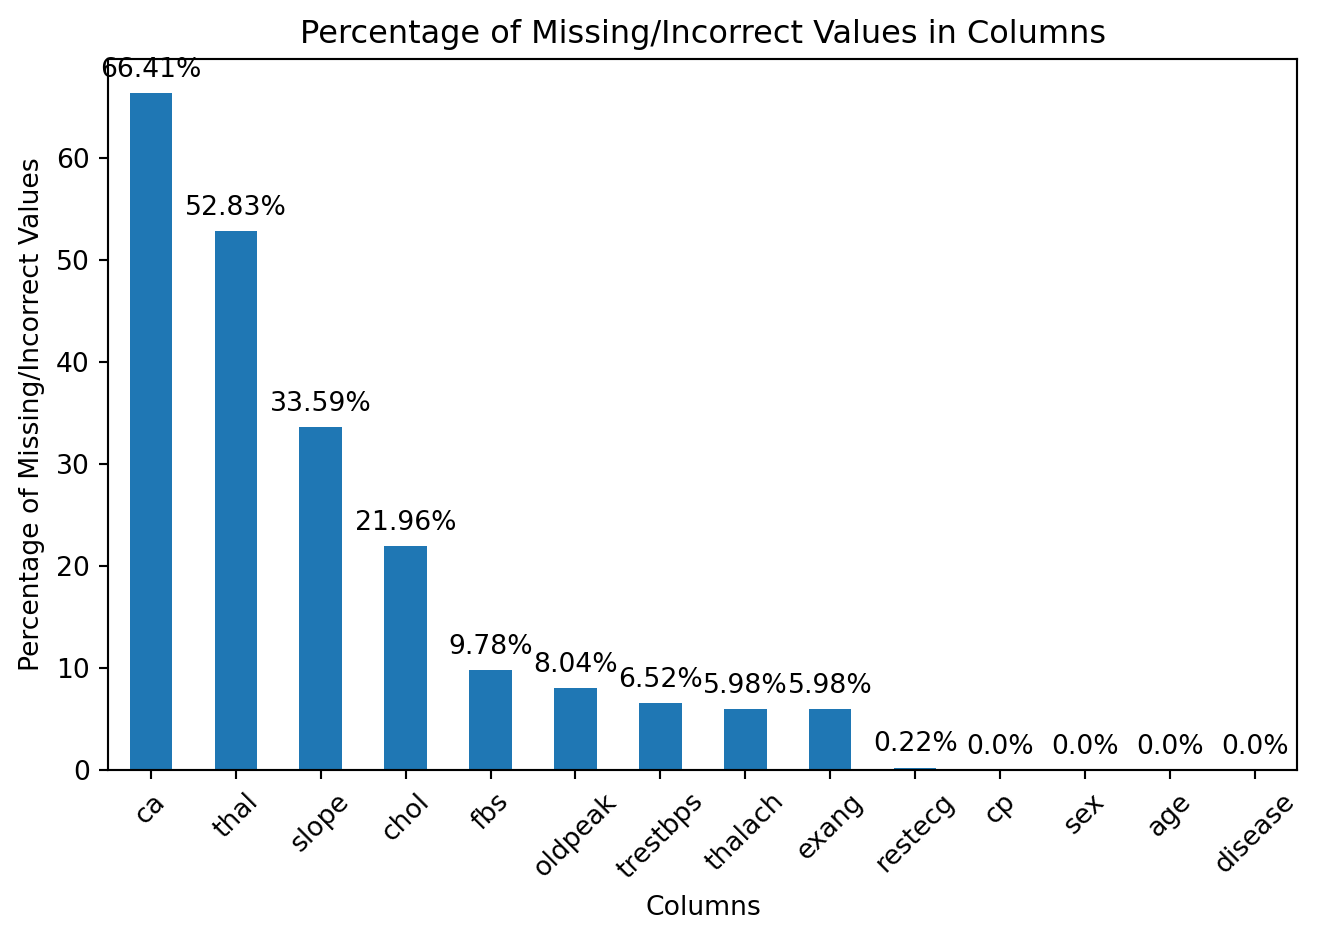
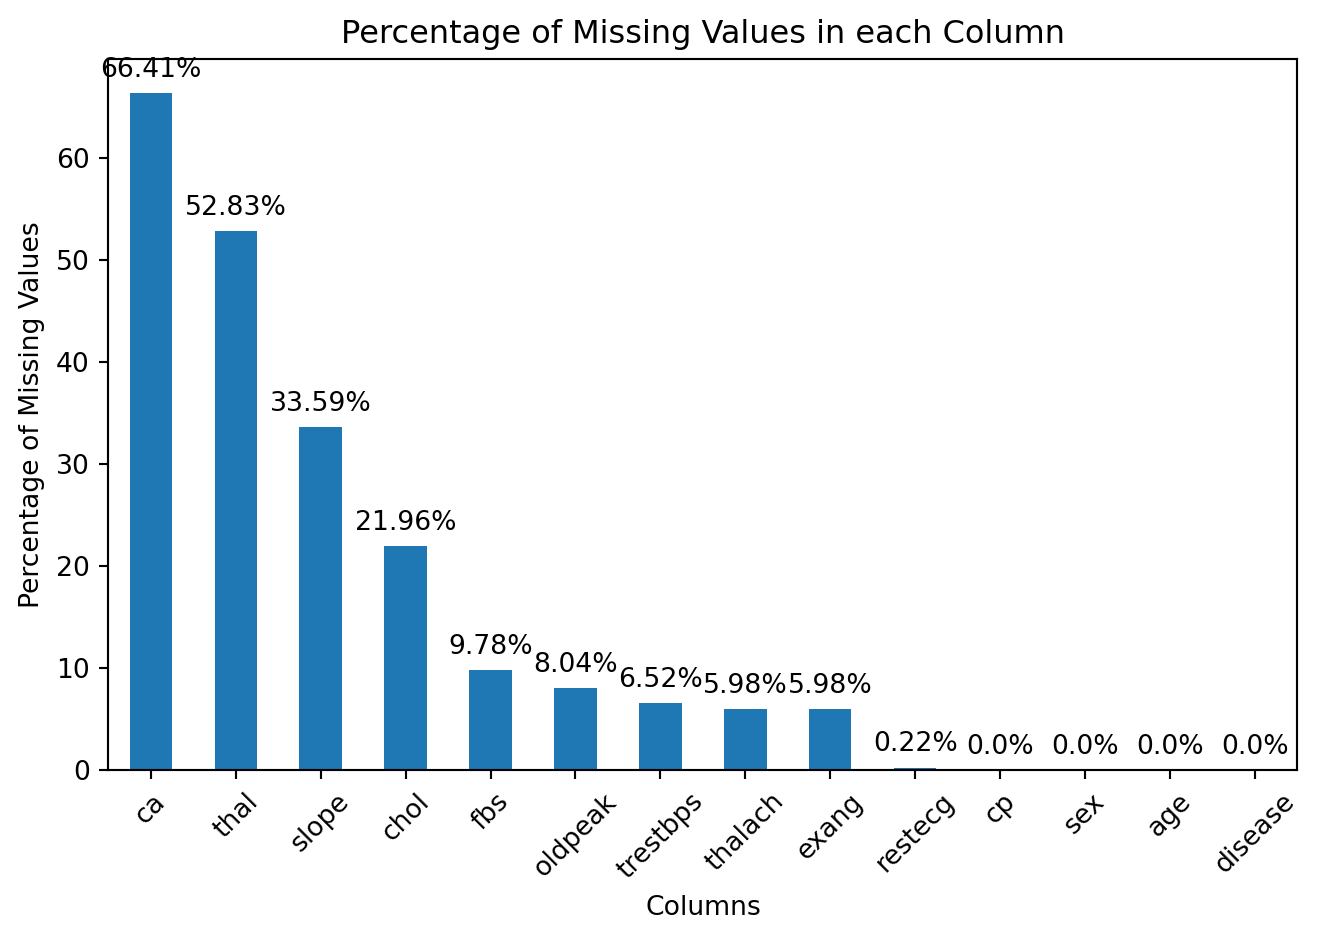
display outliers

Changed region(s): [[0.2178, 0.0, 0.8399, 0.0617], [0.0, 0.1851, 0.0311, 0.7096]]

diff --git a/docs/posts/heart disease prediction/heart-disease.html b/docs/posts/heart disease prediction/heart-disease.html
@@ -165,6 +165,7 @@ pre > code.sourceCode > span > a:first-child::before { text-decoration: underlin
   <li><a href="#data-preparation" id="toc-data-preparation" class="nav-link" data-scroll-target="#data-preparation">Data preparation</a>
   <ul class="collapse">
   <li><a href="#find-incorrect-values" id="toc-find-incorrect-values" class="nav-link" data-scroll-target="#find-incorrect-values">Find incorrect values</a></li>
+  <li><a href="#data-cleaning" id="toc-data-cleaning" class="nav-link" data-scroll-target="#data-cleaning">Data cleaning</a></li>
   </ul></li>
   </ul>
 </nav>
@@ -747,6 +748,7 @@ ca       count                     165.000000                 144.000000
 <li><p><strong>Maximum Heart Rate Achieved (thalach):</strong> Those without heart disease generally achieve higher maximum heart rates compared to those with heart disease. The median maximum heart rate for individuals without heart disease (151 bpm) is higher than for those with heart disease (128 bpm).</p></li>
 <li><p><strong>ST Depression (oldpeak):</strong> The magnitude of ST depression induced by exercise relative to rest appears significantly higher in individuals with heart disease. The median ST depression for those with heart disease (1.05) is notably greater compared to those without heart disease (0).</p></li>
 <li><p><strong>Number of Major Vessels (ca):</strong> Individuals with heart disease tend to have a higher number of major vessels colored by fluoroscopy. The median number of major vessels for those with heart disease (1) is higher than for those without heart disease (0).</p></li>
+<li><p><strong>Outliers:</strong> In ‘trestbps’ and ‘chol’ columns, ‘trestbps’ displays an outlier with a minimum value of 0, while ‘chol’ has outliers represented by zero values in both categories, which may require further investigation due to their deviation from expected physiological ranges.</p></li>
 </ul>
 <div class="cell" data-execution_count="9">
 <details open="">
@@ -831,9 +833,9 @@ ca       count                     165.000000                 144.000000
 <span id="cb12-11"><a href="#cb12-11" aria-hidden="true" tabindex="-1"></a>    .<span class="bu">apply</span>(<span class="kw">lambda</span> x: (x, <span class="bu">round</span>(x <span class="op">/</span> <span class="bu">len</span>(df_missing) <span class="op">*</span> <span class="dv">100</span>, <span class="dv">2</span>)))</span>
 <span id="cb12-12"><a href="#cb12-12" aria-hidden="true" tabindex="-1"></a></span>
 <span id="cb12-13"><a href="#cb12-13" aria-hidden="true" tabindex="-1"></a><span class="co"># Plotting the missing value percentages</span></span>
-<span id="cb12-14"><a href="#cb12-14" aria-hidden="true" tabindex="-1"></a>na_values_percent.<span class="bu">apply</span>(<span class="kw">lambda</span> x: x[<span class="dv">1</span>]).plot.bar(title<span class="op">=</span><span class="st">'Percentage of Missing/Incorrect Values in Columns'</span>)</span>
+<span id="cb12-14"><a href="#cb12-14" aria-hidden="true" tabindex="-1"></a>na_values_percent.<span class="bu">apply</span>(<span class="kw">lambda</span> x: x[<span class="dv">1</span>]).plot.bar(title<span class="op">=</span><span class="st">'Percentage of Missing Values in each Column'</span>)</span>
 <span id="cb12-15"><a href="#cb12-15" aria-hidden="true" tabindex="-1"></a>plt.xlabel(<span class="st">'Columns'</span>)</span>
-<span id="cb12-16"><a href="#cb12-16" aria-hidden="true" tabindex="-1"></a>plt.ylabel(<span class="st">'Percentage of Missing/Incorrect Values'</span>)</span>
+<span id="cb12-16"><a href="#cb12-16" aria-hidden="true" tabindex="-1"></a>plt.ylabel(<span class="st">'Percentage of Missing Values'</span>)</span>
 <span id="cb12-17"><a href="#cb12-17" aria-hidden="true" tabindex="-1"></a></span>
 <span id="cb12-18"><a href="#cb12-18" aria-hidden="true" tabindex="-1"></a><span class="co"># Annotating the bars with values</span></span>
 <span id="cb12-19"><a href="#cb12-19" aria-hidden="true" tabindex="-1"></a><span class="cf">for</span> i, val <span class="kw">in</span> <span class="bu">enumerate</span>(na_values_percent.<span class="bu">apply</span>(<span class="kw">lambda</span> x: x[<span class="dv">1</span>])):</span>
@@ -867,6 +869,10 @@ disease         (0, 0.0)
 dtype: object</code></pre>
 </div>
 </div>
+</section>
+<section id="data-cleaning" class="level3">
+<h3 class="anchored" data-anchor-id="data-cleaning">Data cleaning</h3>
+<p>Remove missing values.</p>
 
 
 </section>

diff --git a/docs/projects.html b/docs/projects.html
@@ -172,7 +172,7 @@ ul.task-list li input[type="checkbox"] {
 
 <div class="quarto-listing quarto-listing-container-grid" id="listing-listing">
 <div class="list grid quarto-listing-cols-3">
-<div class="g-col-1" data-index="0" data-categories="python,machine learning,analysis" data-listing-date-sort="1703001600000" data-listing-file-modified-sort="1703059628105" data-listing-date-modified-sort="NaN" data-listing-reading-time-sort="1">
+<div class="g-col-1" data-index="0" data-categories="python,machine learning,analysis" data-listing-date-sort="1703001600000" data-listing-file-modified-sort="1703139130701" data-listing-date-modified-sort="NaN" data-listing-reading-time-sort="12">
 <a href="./posts/heart disease prediction/heart-disease.html" class="quarto-grid-link">
 <div class="quarto-grid-item card h-100 card-left">
 <p class="card-img-top">
